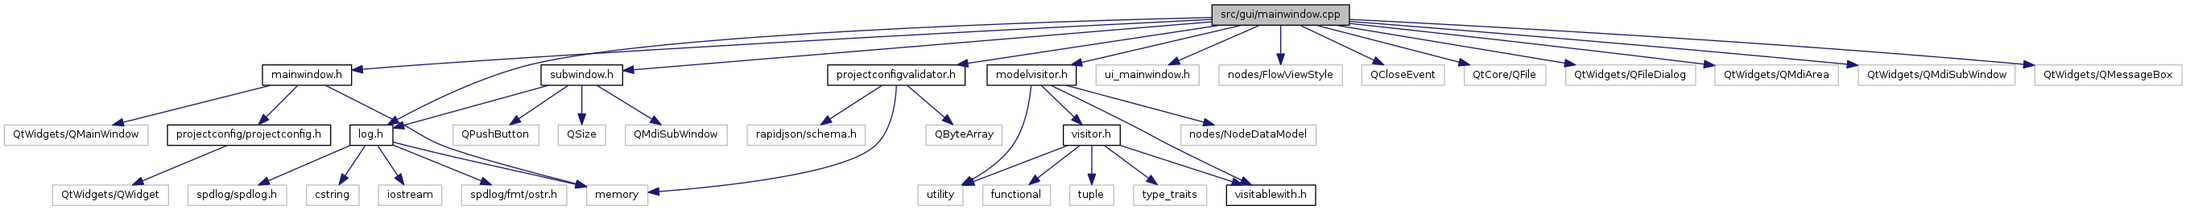
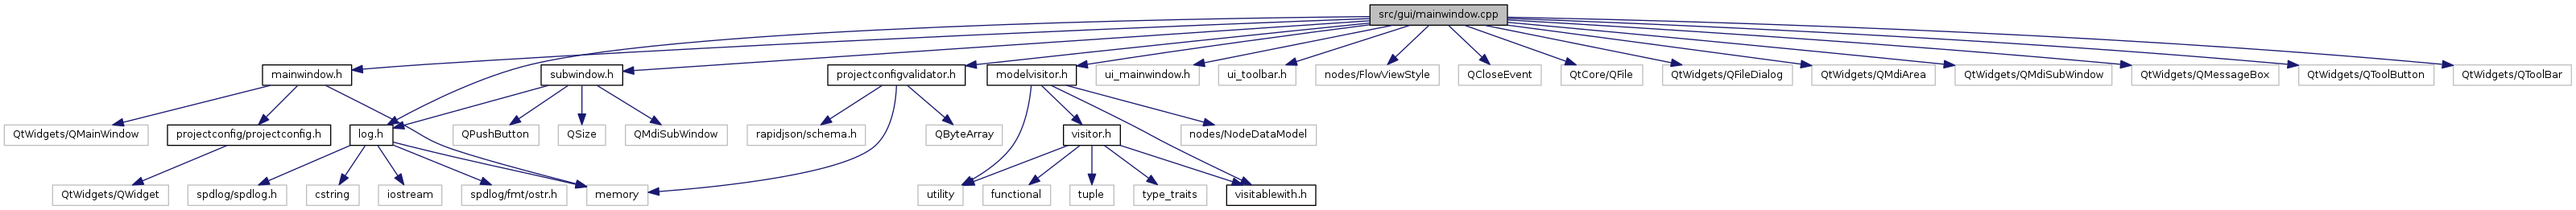
Deploy code docs to GitHub Pages Travis build: 366
Commit: 119ed48143788c033f581b284d51712edefcfd8b

diff --git a/gui_rework/subwindow_8h_source.html b/gui_rework/subwindow_8h_source.html
@@ -108,11 +108,11 @@ $(document).ready(function(){initNavTree('subwindow_8h_source.html','');});
 <div class="title">subwindow.h</div>  </div>
 </div><!--header-->
 <div class="contents">
-<a href="subwindow_8h.html">Go to the documentation of this file.</a><div class="fragment"><div class="line"><a name="l00001"></a><span class="lineno">    1</span>&#160;<span class="preprocessor">#ifndef __SUBWINDOW_H</span></div><div class="line"><a name="l00002"></a><span class="lineno">    2</span>&#160;<span class="preprocessor">#define __SUBWINDOW_H</span></div><div class="line"><a name="l00003"></a><span class="lineno">    3</span>&#160;</div><div class="line"><a name="l00004"></a><span class="lineno">    4</span>&#160;<span class="preprocessor">#include &lt;QMdiSubWindow&gt;</span></div><div class="line"><a name="l00005"></a><span class="lineno">    5</span>&#160;<span class="preprocessor">#include &lt;QPushButton&gt;</span></div><div class="line"><a name="l00006"></a><span class="lineno">    6</span>&#160;<span class="preprocessor">#include &lt;QSize&gt;</span></div><div class="line"><a name="l00007"></a><span class="lineno">    7</span>&#160;<span class="preprocessor">#include &lt;<a class="code" href="log_8h.html">log.h</a>&gt;</span></div><div class="line"><a name="l00008"></a><span class="lineno">    8</span>&#160;</div><div class="line"><a name="l00009"></a><span class="lineno"><a class="line" href="struct_sub_window.html">    9</a></span>&#160;<span class="keyword">struct </span><a class="code" href="struct_sub_window.html">SubWindow</a> : <span class="keyword">public</span> QMdiSubWindow {</div><div class="line"><a name="l00010"></a><span class="lineno"><a class="line" href="struct_sub_window.html#a6f9daf9f3cf4ad881f3b452c32778b1d">   10</a></span>&#160;    <a class="code" href="struct_sub_window.html#a6f9daf9f3cf4ad881f3b452c32778b1d">SubWindow</a>(QWidget* parent)</div><div class="line"><a name="l00011"></a><span class="lineno">   11</span>&#160;        : QMdiSubWindow(parent)</div><div class="line"><a name="l00012"></a><span class="lineno">   12</span>&#160;    {</div><div class="line"><a name="l00013"></a><span class="lineno">   13</span>&#160;        setAttribute(Qt::WA_DeleteOnClose);</div><div class="line"><a name="l00014"></a><span class="lineno">   14</span>&#160;    }</div><div class="line"><a name="l00015"></a><span class="lineno">   15</span>&#160;</div><div class="line"><a name="l00016"></a><span class="lineno"><a class="line" href="struct_sub_window.html#a1b4b2dec3bd9137440c809bde3447f0c">   16</a></span>&#160;    <span class="keyword">virtual</span> <span class="keywordtype">void</span> <a class="code" href="struct_sub_window.html#a1b4b2dec3bd9137440c809bde3447f0c">closeEvent</a>(QCloseEvent* event)<span class="keyword"> override</span></div><div class="line"><a name="l00017"></a><span class="lineno">   17</span>&#160;<span class="keyword">    </span>{</div><div class="line"><a name="l00018"></a><span class="lineno">   18</span>&#160;        <a class="code" href="log_8h.html#a05b412e36545f9b557c32234fd8d0f30">cds_debug</a>(<span class="stringliteral">&quot;On closing&quot;</span>);</div><div class="line"><a name="l00019"></a><span class="lineno">   19</span>&#160;</div><div class="line"><a name="l00020"></a><span class="lineno">   20</span>&#160;        <span class="comment">// Allow to close the window but prevent deletion of the widget</span></div><div class="line"><a name="l00021"></a><span class="lineno">   21</span>&#160;        setWidget(<span class="keyword">nullptr</span>);</div><div class="line"><a name="l00022"></a><span class="lineno">   22</span>&#160;        QMdiSubWindow::closeEvent(event);</div><div class="line"><a name="l00023"></a><span class="lineno">   23</span>&#160;    }</div><div class="line"><a name="l00024"></a><span class="lineno">   24</span>&#160;</div><div class="line"><a name="l00025"></a><span class="lineno"><a class="line" href="struct_sub_window.html#a81428e95192aa942f6a4b89e64b51b06">   25</a></span>&#160;    <span class="keyword">virtual</span> QSize <a class="code" href="struct_sub_window.html#a81428e95192aa942f6a4b89e64b51b06">minimumSizeHint</a>()<span class="keyword"> const override</span></div><div class="line"><a name="l00026"></a><span class="lineno">   26</span>&#160;<span class="keyword">    </span>{</div><div class="line"><a name="l00027"></a><span class="lineno">   27</span>&#160;        <span class="keywordflow">return</span> { 200, 100 };</div><div class="line"><a name="l00028"></a><span class="lineno">   28</span>&#160;    }</div><div class="line"><a name="l00029"></a><span class="lineno">   29</span>&#160;</div><div class="line"><a name="l00030"></a><span class="lineno"><a class="line" href="struct_sub_window.html#aeeea59c37ad33ad7160a5831734d9181">   30</a></span>&#160;    <span class="keyword">virtual</span> QSize <a class="code" href="struct_sub_window.html#aeeea59c37ad33ad7160a5831734d9181">sizeHint</a>()<span class="keyword"> const override</span></div><div class="line"><a name="l00031"></a><span class="lineno">   31</span>&#160;<span class="keyword">    </span>{</div><div class="line"><a name="l00032"></a><span class="lineno">   32</span>&#160;        QSize size;</div><div class="line"><a name="l00033"></a><span class="lineno">   33</span>&#160;</div><div class="line"><a name="l00034"></a><span class="lineno">   34</span>&#160;        <span class="keywordflow">if</span> (parentWidget()) {</div><div class="line"><a name="l00035"></a><span class="lineno">   35</span>&#160;            size.setHeight(parentWidget()-&gt;size().height() / 2);</div><div class="line"><a name="l00036"></a><span class="lineno">   36</span>&#160;            size.setWidth(parentWidget()-&gt;size().width() / 2);</div><div class="line"><a name="l00037"></a><span class="lineno">   37</span>&#160;        } <span class="keywordflow">else</span> {</div><div class="line"><a name="l00038"></a><span class="lineno">   38</span>&#160;            <a class="code" href="log_8h.html#aadcd3161833f6a2188d288cfdc04d791">cds_error</a>(<span class="stringliteral">&quot;parentWidget() is NULL!&quot;</span>);</div><div class="line"><a name="l00039"></a><span class="lineno">   39</span>&#160;        }</div><div class="line"><a name="l00040"></a><span class="lineno">   40</span>&#160;</div><div class="line"><a name="l00041"></a><span class="lineno">   41</span>&#160;        <span class="keywordflow">return</span> size;</div><div class="line"><a name="l00042"></a><span class="lineno">   42</span>&#160;    }</div><div class="line"><a name="l00043"></a><span class="lineno">   43</span>&#160;};</div><div class="line"><a name="l00044"></a><span class="lineno">   44</span>&#160;</div><div class="line"><a name="l00045"></a><span class="lineno">   45</span>&#160;<span class="preprocessor">#endif </span><span class="comment">/* !__SUBWINDOW_H */</span><span class="preprocessor"></span></div><div class="ttc" id="log_8h_html_aadcd3161833f6a2188d288cfdc04d791"><div class="ttname"><a href="log_8h.html#aadcd3161833f6a2188d288cfdc04d791">cds_error</a></div><div class="ttdeci">#define cds_error(fmt,...)</div><div class="ttdef"><b>Definition:</b> log.h:19</div></div>
-<div class="ttc" id="struct_sub_window_html_a81428e95192aa942f6a4b89e64b51b06"><div class="ttname"><a href="struct_sub_window.html#a81428e95192aa942f6a4b89e64b51b06">SubWindow::minimumSizeHint</a></div><div class="ttdeci">virtual QSize minimumSizeHint() const override</div><div class="ttdef"><b>Definition:</b> subwindow.h:25</div></div>
-<div class="ttc" id="struct_sub_window_html_aeeea59c37ad33ad7160a5831734d9181"><div class="ttname"><a href="struct_sub_window.html#aeeea59c37ad33ad7160a5831734d9181">SubWindow::sizeHint</a></div><div class="ttdeci">virtual QSize sizeHint() const override</div><div class="ttdef"><b>Definition:</b> subwindow.h:30</div></div>
+<a href="subwindow_8h.html">Go to the documentation of this file.</a><div class="fragment"><div class="line"><a name="l00001"></a><span class="lineno">    1</span>&#160;<span class="preprocessor">#ifndef __SUBWINDOW_H</span></div><div class="line"><a name="l00002"></a><span class="lineno">    2</span>&#160;<span class="preprocessor">#define __SUBWINDOW_H</span></div><div class="line"><a name="l00003"></a><span class="lineno">    3</span>&#160;</div><div class="line"><a name="l00004"></a><span class="lineno">    4</span>&#160;<span class="preprocessor">#include &lt;QMdiSubWindow&gt;</span></div><div class="line"><a name="l00005"></a><span class="lineno">    5</span>&#160;<span class="preprocessor">#include &lt;QPushButton&gt;</span></div><div class="line"><a name="l00006"></a><span class="lineno">    6</span>&#160;<span class="preprocessor">#include &lt;QSize&gt;</span></div><div class="line"><a name="l00007"></a><span class="lineno">    7</span>&#160;<span class="preprocessor">#include &lt;<a class="code" href="log_8h.html">log.h</a>&gt;</span></div><div class="line"><a name="l00008"></a><span class="lineno">    8</span>&#160;</div><div class="line"><a name="l00009"></a><span class="lineno"><a class="line" href="struct_sub_window.html">    9</a></span>&#160;<span class="keyword">struct </span><a class="code" href="struct_sub_window.html">SubWindow</a> : <span class="keyword">public</span> QMdiSubWindow {</div><div class="line"><a name="l00010"></a><span class="lineno"><a class="line" href="struct_sub_window.html#a6f9daf9f3cf4ad881f3b452c32778b1d">   10</a></span>&#160;    <a class="code" href="struct_sub_window.html#a6f9daf9f3cf4ad881f3b452c32778b1d">SubWindow</a>(QWidget* parent)</div><div class="line"><a name="l00011"></a><span class="lineno">   11</span>&#160;        : QMdiSubWindow(parent)</div><div class="line"><a name="l00012"></a><span class="lineno">   12</span>&#160;    {</div><div class="line"><a name="l00013"></a><span class="lineno">   13</span>&#160;        setAttribute(Qt::WA_DeleteOnClose);</div><div class="line"><a name="l00014"></a><span class="lineno">   14</span>&#160;        setWindowIcon(QIcon(<span class="stringliteral">&quot;:/images/files/images/light/CANbus_logo.svg&quot;</span>));</div><div class="line"><a name="l00015"></a><span class="lineno">   15</span>&#160;    }</div><div class="line"><a name="l00016"></a><span class="lineno">   16</span>&#160;</div><div class="line"><a name="l00017"></a><span class="lineno"><a class="line" href="struct_sub_window.html#a1b4b2dec3bd9137440c809bde3447f0c">   17</a></span>&#160;    <span class="keyword">virtual</span> <span class="keywordtype">void</span> <a class="code" href="struct_sub_window.html#a1b4b2dec3bd9137440c809bde3447f0c">closeEvent</a>(QCloseEvent* event)<span class="keyword"> override</span></div><div class="line"><a name="l00018"></a><span class="lineno">   18</span>&#160;<span class="keyword">    </span>{</div><div class="line"><a name="l00019"></a><span class="lineno">   19</span>&#160;        <a class="code" href="log_8h.html#a05b412e36545f9b557c32234fd8d0f30">cds_debug</a>(<span class="stringliteral">&quot;On closing&quot;</span>);</div><div class="line"><a name="l00020"></a><span class="lineno">   20</span>&#160;</div><div class="line"><a name="l00021"></a><span class="lineno">   21</span>&#160;        <span class="comment">// Allow to close the window but prevent deletion of the widget</span></div><div class="line"><a name="l00022"></a><span class="lineno">   22</span>&#160;        setWidget(<span class="keyword">nullptr</span>);</div><div class="line"><a name="l00023"></a><span class="lineno">   23</span>&#160;        QMdiSubWindow::closeEvent(event);</div><div class="line"><a name="l00024"></a><span class="lineno">   24</span>&#160;    }</div><div class="line"><a name="l00025"></a><span class="lineno">   25</span>&#160;</div><div class="line"><a name="l00026"></a><span class="lineno"><a class="line" href="struct_sub_window.html#a81428e95192aa942f6a4b89e64b51b06">   26</a></span>&#160;    <span class="keyword">virtual</span> QSize <a class="code" href="struct_sub_window.html#a81428e95192aa942f6a4b89e64b51b06">minimumSizeHint</a>()<span class="keyword"> const override</span></div><div class="line"><a name="l00027"></a><span class="lineno">   27</span>&#160;<span class="keyword">    </span>{</div><div class="line"><a name="l00028"></a><span class="lineno">   28</span>&#160;        <span class="keywordflow">return</span> { 200, 100 };</div><div class="line"><a name="l00029"></a><span class="lineno">   29</span>&#160;    }</div><div class="line"><a name="l00030"></a><span class="lineno">   30</span>&#160;</div><div class="line"><a name="l00031"></a><span class="lineno"><a class="line" href="struct_sub_window.html#aeeea59c37ad33ad7160a5831734d9181">   31</a></span>&#160;    <span class="keyword">virtual</span> QSize <a class="code" href="struct_sub_window.html#aeeea59c37ad33ad7160a5831734d9181">sizeHint</a>()<span class="keyword"> const override</span></div><div class="line"><a name="l00032"></a><span class="lineno">   32</span>&#160;<span class="keyword">    </span>{</div><div class="line"><a name="l00033"></a><span class="lineno">   33</span>&#160;        QSize size;</div><div class="line"><a name="l00034"></a><span class="lineno">   34</span>&#160;</div><div class="line"><a name="l00035"></a><span class="lineno">   35</span>&#160;        <span class="keywordflow">if</span> (parentWidget()) {</div><div class="line"><a name="l00036"></a><span class="lineno">   36</span>&#160;            size.setHeight(parentWidget()-&gt;size().height() / 2);</div><div class="line"><a name="l00037"></a><span class="lineno">   37</span>&#160;            size.setWidth(parentWidget()-&gt;size().width() / 2);</div><div class="line"><a name="l00038"></a><span class="lineno">   38</span>&#160;        } <span class="keywordflow">else</span> {</div><div class="line"><a name="l00039"></a><span class="lineno">   39</span>&#160;            <a class="code" href="log_8h.html#aadcd3161833f6a2188d288cfdc04d791">cds_error</a>(<span class="stringliteral">&quot;parentWidget() is NULL!&quot;</span>);</div><div class="line"><a name="l00040"></a><span class="lineno">   40</span>&#160;        }</div><div class="line"><a name="l00041"></a><span class="lineno">   41</span>&#160;</div><div class="line"><a name="l00042"></a><span class="lineno">   42</span>&#160;        <span class="keywordflow">return</span> size;</div><div class="line"><a name="l00043"></a><span class="lineno">   43</span>&#160;    }</div><div class="line"><a name="l00044"></a><span class="lineno">   44</span>&#160;};</div><div class="line"><a name="l00045"></a><span class="lineno">   45</span>&#160;</div><div class="line"><a name="l00046"></a><span class="lineno">   46</span>&#160;<span class="preprocessor">#endif </span><span class="comment">/* !__SUBWINDOW_H */</span><span class="preprocessor"></span></div><div class="ttc" id="log_8h_html_aadcd3161833f6a2188d288cfdc04d791"><div class="ttname"><a href="log_8h.html#aadcd3161833f6a2188d288cfdc04d791">cds_error</a></div><div class="ttdeci">#define cds_error(fmt,...)</div><div class="ttdef"><b>Definition:</b> log.h:19</div></div>
+<div class="ttc" id="struct_sub_window_html_a81428e95192aa942f6a4b89e64b51b06"><div class="ttname"><a href="struct_sub_window.html#a81428e95192aa942f6a4b89e64b51b06">SubWindow::minimumSizeHint</a></div><div class="ttdeci">virtual QSize minimumSizeHint() const override</div><div class="ttdef"><b>Definition:</b> subwindow.h:26</div></div>
+<div class="ttc" id="struct_sub_window_html_aeeea59c37ad33ad7160a5831734d9181"><div class="ttname"><a href="struct_sub_window.html#aeeea59c37ad33ad7160a5831734d9181">SubWindow::sizeHint</a></div><div class="ttdeci">virtual QSize sizeHint() const override</div><div class="ttdef"><b>Definition:</b> subwindow.h:31</div></div>
 <div class="ttc" id="struct_sub_window_html"><div class="ttname"><a href="struct_sub_window.html">SubWindow</a></div><div class="ttdef"><b>Definition:</b> subwindow.h:9</div></div>
-<div class="ttc" id="struct_sub_window_html_a1b4b2dec3bd9137440c809bde3447f0c"><div class="ttname"><a href="struct_sub_window.html#a1b4b2dec3bd9137440c809bde3447f0c">SubWindow::closeEvent</a></div><div class="ttdeci">virtual void closeEvent(QCloseEvent *event) override</div><div class="ttdef"><b>Definition:</b> subwindow.h:16</div></div>
+<div class="ttc" id="struct_sub_window_html_a1b4b2dec3bd9137440c809bde3447f0c"><div class="ttname"><a href="struct_sub_window.html#a1b4b2dec3bd9137440c809bde3447f0c">SubWindow::closeEvent</a></div><div class="ttdeci">virtual void closeEvent(QCloseEvent *event) override</div><div class="ttdef"><b>Definition:</b> subwindow.h:17</div></div>
 <div class="ttc" id="struct_sub_window_html_a6f9daf9f3cf4ad881f3b452c32778b1d"><div class="ttname"><a href="struct_sub_window.html#a6f9daf9f3cf4ad881f3b452c32778b1d">SubWindow::SubWindow</a></div><div class="ttdeci">SubWindow(QWidget *parent)</div><div class="ttdef"><b>Definition:</b> subwindow.h:10</div></div>
 <div class="ttc" id="log_8h_html"><div class="ttname"><a href="log_8h.html">log.h</a></div></div>
 <div class="ttc" id="log_8h_html_a05b412e36545f9b557c32234fd8d0f30"><div class="ttname"><a href="log_8h.html#a05b412e36545f9b557c32234fd8d0f30">cds_debug</a></div><div class="ttdeci">#define cds_debug(fmt,...)</div><div class="ttdef"><b>Definition:</b> log.h:11</div></div>

diff --git a/gui_rework/mainwindow_8h_source.html b/gui_rework/mainwindow_8h_source.html
@@ -108,9 +108,9 @@ $(document).ready(function(){initNavTree('mainwindow_8h_source.html','');});
 <div class="title">mainwindow.h</div>  </div>
 </div><!--header-->
 <div class="contents">
-<a href="mainwindow_8h.html">Go to the documentation of this file.</a><div class="fragment"><div class="line"><a name="l00001"></a><span class="lineno">    1</span>&#160;<span class="preprocessor">#ifndef MAINWINDOW_H</span></div><div class="line"><a name="l00002"></a><span class="lineno">    2</span>&#160;<span class="preprocessor">#define MAINWINDOW_H</span></div><div class="line"><a name="l00003"></a><span class="lineno">    3</span>&#160;</div><div class="line"><a name="l00004"></a><span class="lineno">    4</span>&#160;<span class="preprocessor">#include &lt;QtWidgets/QMainWindow&gt;</span></div><div class="line"><a name="l00005"></a><span class="lineno">    5</span>&#160;<span class="preprocessor">#include &lt;memory&gt;</span></div><div class="line"><a name="l00006"></a><span class="lineno">    6</span>&#160;</div><div class="line"><a name="l00007"></a><span class="lineno">    7</span>&#160;<span class="preprocessor">#include &quot;<a class="code" href="projectconfig_8h.html">projectconfig/projectconfig.h</a>&quot;</span></div><div class="line"><a name="l00008"></a><span class="lineno">    8</span>&#160;</div><div class="line"><a name="l00009"></a><span class="lineno">    9</span>&#160;<span class="keyword">class </span>QCloseEvent;</div><div class="line"><a name="l00010"></a><span class="lineno">   10</span>&#160;</div><div class="line"><a name="l00011"></a><span class="lineno">   11</span>&#160;<span class="keyword">namespace </span><a class="code" href="namespace_ui.html">Ui</a> {</div><div class="line"><a name="l00012"></a><span class="lineno">   12</span>&#160;<span class="keyword">class </span><a class="code" href="class_main_window.html">MainWindow</a>;</div><div class="line"><a name="l00013"></a><span class="lineno">   13</span>&#160;}</div><div class="line"><a name="l00014"></a><span class="lineno">   14</span>&#160;</div><div class="line"><a name="l00015"></a><span class="lineno"><a class="line" href="class_main_window.html">   15</a></span>&#160;<span class="keyword">class </span><a class="code" href="class_main_window.html">MainWindow</a> : <span class="keyword">public</span> QMainWindow {</div><div class="line"><a name="l00016"></a><span class="lineno">   16</span>&#160;    Q_OBJECT</div><div class="line"><a name="l00017"></a><span class="lineno">   17</span>&#160;</div><div class="line"><a name="l00018"></a><span class="lineno">   18</span>&#160;<span class="keyword">public</span>:</div><div class="line"><a name="l00019"></a><span class="lineno"><a class="line" href="class_main_window.html#a3ce45e5943ef06256e909456d7aaff8d">   19</a></span>&#160;    <span class="keyword">enum class</span> <a class="code" href="class_main_window.html#a3ce45e5943ef06256e909456d7aaff8d">Styles</a> {</div><div class="line"><a name="l00020"></a><span class="lineno">   20</span>&#160;        darkStyle,</div><div class="line"><a name="l00021"></a><span class="lineno">   21</span>&#160;        lightStyle</div><div class="line"><a name="l00022"></a><span class="lineno">   22</span>&#160;    };</div><div class="line"><a name="l00023"></a><span class="lineno">   23</span>&#160;</div><div class="line"><a name="l00024"></a><span class="lineno">   24</span>&#160;    <span class="keyword">explicit</span> <a class="code" href="class_main_window.html">MainWindow</a>(QWidget* parent = <span class="keyword">nullptr</span>);</div><div class="line"><a name="l00025"></a><span class="lineno">   25</span>&#160;    ~<a class="code" href="class_main_window.html">MainWindow</a>();</div><div class="line"><a name="l00026"></a><span class="lineno">   26</span>&#160;</div><div class="line"><a name="l00027"></a><span class="lineno">   27</span>&#160;<span class="keyword">private</span>:</div><div class="line"><a name="l00028"></a><span class="lineno">   28</span>&#160;    std::unique_ptr&lt;Ui::MainWindow&gt; _ui;</div><div class="line"><a name="l00029"></a><span class="lineno">   29</span>&#160;    std::unique_ptr&lt;ProjectConfig&gt; _projectConfig;</div><div class="line"><a name="l00030"></a><span class="lineno">   30</span>&#160;    QString _projectFile;</div><div class="line"><a name="l00031"></a><span class="lineno">   31</span>&#160;    QString _projectName;</div><div class="line"><a name="l00032"></a><span class="lineno">   32</span>&#160;    <a class="code" href="class_main_window.html#a3ce45e5943ef06256e909456d7aaff8d">Styles</a> currentStyle;</div><div class="line"><a name="l00033"></a><span class="lineno">   33</span>&#160;</div><div class="line"><a name="l00034"></a><span class="lineno">   34</span>&#160;    <span class="keywordtype">void</span> connectToolbarSignals();</div><div class="line"><a name="l00035"></a><span class="lineno">   35</span>&#160;    <span class="keywordtype">void</span> connectMenuSignals();</div><div class="line"><a name="l00036"></a><span class="lineno">   36</span>&#160;    <span class="keywordtype">void</span> setupMdiArea();</div><div class="line"><a name="l00037"></a><span class="lineno">   37</span>&#160;    <span class="keywordtype">void</span> closeEvent(QCloseEvent* event);</div><div class="line"><a name="l00038"></a><span class="lineno">   38</span>&#160;    <span class="keywordtype">void</span> handleLoadAction();</div><div class="line"><a name="l00039"></a><span class="lineno">   39</span>&#160;    <span class="keywordtype">void</span> handleSaveAction();</div><div class="line"><a name="l00040"></a><span class="lineno">   40</span>&#160;    <span class="keywordtype">void</span> handleSaveAsAction();</div><div class="line"><a name="l00041"></a><span class="lineno">   41</span>&#160;    <span class="keywordtype">void</span> addToMdi(QWidget* component);</div><div class="line"><a name="l00042"></a><span class="lineno">   42</span>&#160;</div><div class="line"><a name="l00043"></a><span class="lineno">   43</span>&#160;<span class="keyword">public</span> slots:</div><div class="line"><a name="l00044"></a><span class="lineno">   44</span>&#160;    <span class="keywordtype">void</span> handleDock(QWidget* component);</div><div class="line"><a name="l00045"></a><span class="lineno">   45</span>&#160;    <span class="keywordtype">void</span> handleWidgetDeletion(QWidget* widget);</div><div class="line"><a name="l00046"></a><span class="lineno">   46</span>&#160;    <span class="keywordtype">void</span> handleWidgetShowing(QWidget* widget, <span class="keywordtype">bool</span> docked);</div><div class="line"><a name="l00047"></a><span class="lineno">   47</span>&#160;    <span class="keywordtype">bool</span> createProjectConfig(<span class="keyword">const</span> QString &amp;name);</div><div class="line"><a name="l00048"></a><span class="lineno">   48</span>&#160;    <span class="keywordtype">bool</span> closeProjectConfig();</div><div class="line"><a name="l00049"></a><span class="lineno">   49</span>&#160;    <span class="keywordtype">void</span> switchStyle();</div><div class="line"><a name="l00050"></a><span class="lineno">   50</span>&#160;    <span class="keywordtype">void</span> setStyle(<a class="code" href="class_main_window.html#a3ce45e5943ef06256e909456d7aaff8d">Styles</a> style);</div><div class="line"><a name="l00051"></a><span class="lineno">   51</span>&#160;};</div><div class="line"><a name="l00052"></a><span class="lineno">   52</span>&#160;</div><div class="line"><a name="l00053"></a><span class="lineno">   53</span>&#160;<span class="preprocessor">#endif // MAINWINDOW_H</span></div><div class="ttc" id="namespace_ui_html"><div class="ttname"><a href="namespace_ui.html">Ui</a></div><div class="ttdef"><b>Definition:</b> canrawsender_p.h:13</div></div>
-<div class="ttc" id="class_main_window_html_a3ce45e5943ef06256e909456d7aaff8d"><div class="ttname"><a href="class_main_window.html#a3ce45e5943ef06256e909456d7aaff8d">MainWindow::Styles</a></div><div class="ttdeci">Styles</div><div class="ttdef"><b>Definition:</b> mainwindow.h:19</div></div>
-<div class="ttc" id="class_main_window_html"><div class="ttname"><a href="class_main_window.html">MainWindow</a></div><div class="ttdef"><b>Definition:</b> mainwindow.h:15</div></div>
+<a href="mainwindow_8h.html">Go to the documentation of this file.</a><div class="fragment"><div class="line"><a name="l00001"></a><span class="lineno">    1</span>&#160;<span class="preprocessor">#ifndef MAINWINDOW_H</span></div><div class="line"><a name="l00002"></a><span class="lineno">    2</span>&#160;<span class="preprocessor">#define MAINWINDOW_H</span></div><div class="line"><a name="l00003"></a><span class="lineno">    3</span>&#160;</div><div class="line"><a name="l00004"></a><span class="lineno">    4</span>&#160;<span class="preprocessor">#include &lt;QtWidgets/QMainWindow&gt;</span></div><div class="line"><a name="l00005"></a><span class="lineno">    5</span>&#160;<span class="preprocessor">#include &lt;memory&gt;</span></div><div class="line"><a name="l00006"></a><span class="lineno">    6</span>&#160;</div><div class="line"><a name="l00007"></a><span class="lineno">    7</span>&#160;<span class="preprocessor">#include &quot;<a class="code" href="projectconfig_8h.html">projectconfig/projectconfig.h</a>&quot;</span></div><div class="line"><a name="l00008"></a><span class="lineno">    8</span>&#160;</div><div class="line"><a name="l00009"></a><span class="lineno">    9</span>&#160;<span class="keyword">class </span>QCloseEvent;</div><div class="line"><a name="l00010"></a><span class="lineno">   10</span>&#160;</div><div class="line"><a name="l00011"></a><span class="lineno">   11</span>&#160;<span class="keyword">namespace </span><a class="code" href="namespace_ui.html">Ui</a> {</div><div class="line"><a name="l00012"></a><span class="lineno">   12</span>&#160;<span class="keyword">class </span>ToolBar;</div><div class="line"><a name="l00013"></a><span class="lineno">   13</span>&#160;<span class="keyword">class </span><a class="code" href="class_main_window.html">MainWindow</a>;</div><div class="line"><a name="l00014"></a><span class="lineno">   14</span>&#160;}</div><div class="line"><a name="l00015"></a><span class="lineno">   15</span>&#160;</div><div class="line"><a name="l00016"></a><span class="lineno"><a class="line" href="class_main_window.html">   16</a></span>&#160;<span class="keyword">class </span><a class="code" href="class_main_window.html">MainWindow</a> : <span class="keyword">public</span> QMainWindow {</div><div class="line"><a name="l00017"></a><span class="lineno">   17</span>&#160;    Q_OBJECT</div><div class="line"><a name="l00018"></a><span class="lineno">   18</span>&#160;</div><div class="line"><a name="l00019"></a><span class="lineno">   19</span>&#160;<span class="keyword">public</span>:</div><div class="line"><a name="l00020"></a><span class="lineno"><a class="line" href="class_main_window.html#a3ce45e5943ef06256e909456d7aaff8d">   20</a></span>&#160;    <span class="keyword">enum class</span> <a class="code" href="class_main_window.html#a3ce45e5943ef06256e909456d7aaff8d">Styles</a> {</div><div class="line"><a name="l00021"></a><span class="lineno">   21</span>&#160;        darkStyle,</div><div class="line"><a name="l00022"></a><span class="lineno">   22</span>&#160;        lightStyle</div><div class="line"><a name="l00023"></a><span class="lineno">   23</span>&#160;    };</div><div class="line"><a name="l00024"></a><span class="lineno">   24</span>&#160;</div><div class="line"><a name="l00025"></a><span class="lineno">   25</span>&#160;    <span class="keyword">explicit</span> <a class="code" href="class_main_window.html">MainWindow</a>(QWidget* parent = <span class="keyword">nullptr</span>);</div><div class="line"><a name="l00026"></a><span class="lineno">   26</span>&#160;    ~<a class="code" href="class_main_window.html">MainWindow</a>();</div><div class="line"><a name="l00027"></a><span class="lineno">   27</span>&#160;</div><div class="line"><a name="l00028"></a><span class="lineno">   28</span>&#160;<span class="keyword">private</span>:</div><div class="line"><a name="l00029"></a><span class="lineno">   29</span>&#160;    std::unique_ptr&lt;Ui::MainWindow&gt; _ui;</div><div class="line"><a name="l00030"></a><span class="lineno">   30</span>&#160;    std::unique_ptr&lt;Ui::ToolBar&gt; _toolBar;</div><div class="line"><a name="l00031"></a><span class="lineno">   31</span>&#160;    std::unique_ptr&lt;ProjectConfig&gt; _projectConfig;</div><div class="line"><a name="l00032"></a><span class="lineno">   32</span>&#160;    QString _projectFile;</div><div class="line"><a name="l00033"></a><span class="lineno">   33</span>&#160;    QString _projectName;</div><div class="line"><a name="l00034"></a><span class="lineno">   34</span>&#160;    <a class="code" href="class_main_window.html#a3ce45e5943ef06256e909456d7aaff8d">Styles</a> currentStyle;</div><div class="line"><a name="l00035"></a><span class="lineno">   35</span>&#160;</div><div class="line"><a name="l00036"></a><span class="lineno">   36</span>&#160;    <span class="keywordtype">void</span> connectToolbarSignals();</div><div class="line"><a name="l00037"></a><span class="lineno">   37</span>&#160;    <span class="keywordtype">void</span> connectMenuSignals();</div><div class="line"><a name="l00038"></a><span class="lineno">   38</span>&#160;    <span class="keywordtype">void</span> setupMdiArea();</div><div class="line"><a name="l00039"></a><span class="lineno">   39</span>&#160;    <span class="keywordtype">void</span> closeEvent(QCloseEvent* event);</div><div class="line"><a name="l00040"></a><span class="lineno">   40</span>&#160;    <span class="keywordtype">void</span> handleLoadAction();</div><div class="line"><a name="l00041"></a><span class="lineno">   41</span>&#160;    <span class="keywordtype">void</span> handleSaveAction();</div><div class="line"><a name="l00042"></a><span class="lineno">   42</span>&#160;    <span class="keywordtype">void</span> handleSaveAsAction();</div><div class="line"><a name="l00043"></a><span class="lineno">   43</span>&#160;    <span class="keywordtype">void</span> addToMdi(QWidget* component);</div><div class="line"><a name="l00044"></a><span class="lineno">   44</span>&#160;</div><div class="line"><a name="l00045"></a><span class="lineno">   45</span>&#160;<span class="keyword">public</span> slots:</div><div class="line"><a name="l00046"></a><span class="lineno">   46</span>&#160;    <span class="keywordtype">void</span> handleDock(QWidget* component);</div><div class="line"><a name="l00047"></a><span class="lineno">   47</span>&#160;    <span class="keywordtype">void</span> handleWidgetDeletion(QWidget* widget);</div><div class="line"><a name="l00048"></a><span class="lineno">   48</span>&#160;    <span class="keywordtype">void</span> handleWidgetShowing(QWidget* widget, <span class="keywordtype">bool</span> docked);</div><div class="line"><a name="l00049"></a><span class="lineno">   49</span>&#160;    <span class="keywordtype">bool</span> createProjectConfig(<span class="keyword">const</span> QString &amp;name);</div><div class="line"><a name="l00050"></a><span class="lineno">   50</span>&#160;    <span class="keywordtype">bool</span> closeProjectConfig();</div><div class="line"><a name="l00051"></a><span class="lineno">   51</span>&#160;    <span class="keywordtype">void</span> switchStyle();</div><div class="line"><a name="l00052"></a><span class="lineno">   52</span>&#160;    <span class="keywordtype">void</span> setStyle(<a class="code" href="class_main_window.html#a3ce45e5943ef06256e909456d7aaff8d">Styles</a> style);</div><div class="line"><a name="l00053"></a><span class="lineno">   53</span>&#160;};</div><div class="line"><a name="l00054"></a><span class="lineno">   54</span>&#160;</div><div class="line"><a name="l00055"></a><span class="lineno">   55</span>&#160;<span class="preprocessor">#endif // MAINWINDOW_H</span></div><div class="ttc" id="namespace_ui_html"><div class="ttname"><a href="namespace_ui.html">Ui</a></div><div class="ttdef"><b>Definition:</b> canrawsender_p.h:13</div></div>
+<div class="ttc" id="class_main_window_html_a3ce45e5943ef06256e909456d7aaff8d"><div class="ttname"><a href="class_main_window.html#a3ce45e5943ef06256e909456d7aaff8d">MainWindow::Styles</a></div><div class="ttdeci">Styles</div><div class="ttdef"><b>Definition:</b> mainwindow.h:20</div></div>
+<div class="ttc" id="class_main_window_html"><div class="ttname"><a href="class_main_window.html">MainWindow</a></div><div class="ttdef"><b>Definition:</b> mainwindow.h:16</div></div>
 <div class="ttc" id="projectconfig_8h_html"><div class="ttname"><a href="projectconfig_8h.html">projectconfig.h</a></div></div>
 </div><!-- fragment --></div><!-- contents -->
 </div><!-- doc-content -->

diff --git a/gui_rework/mainwindow_8cpp.html b/gui_rework/mainwindow_8cpp.html
@@ -113,6 +113,7 @@ $(document).ready(function(){initNavTree('mainwindow_8cpp.html','');});
 <code>#include &quot;<a class="el" href="modelvisitor_8h_source.html">modelvisitor.h</a>&quot;</code><br />
 <code>#include &quot;<a class="el" href="subwindow_8h_source.html">subwindow.h</a>&quot;</code><br />
 <code>#include &quot;ui_mainwindow.h&quot;</code><br />
+<code>#include &quot;ui_toolbar.h&quot;</code><br />
 <code>#include &quot;<a class="el" href="projectconfigvalidator_8h_source.html">projectconfigvalidator.h</a>&quot;</code><br />
 <code>#include &lt;nodes/FlowViewStyle&gt;</code><br />
 <code>#include &lt;QCloseEvent&gt;</code><br />
@@ -121,6 +122,8 @@ $(document).ready(function(){initNavTree('mainwindow_8cpp.html','');});
 <code>#include &lt;QtWidgets/QMdiArea&gt;</code><br />
 <code>#include &lt;QtWidgets/QMdiSubWindow&gt;</code><br />
 <code>#include &lt;QtWidgets/QMessageBox&gt;</code><br />
+<code>#include &lt;QtWidgets/QToolButton&gt;</code><br />
+<code>#include &lt;QtWidgets/QToolBar&gt;</code><br />
 </div><div class="textblock"><div class="dynheader">
 Include dependency graph for mainwindow.cpp:</div>
 <div class="dyncontent">
@@ -130,7 +133,7 @@ Include dependency graph for mainwindow.cpp:</div>
 <area shape="rect" id="node7" href="log_8h.html" title="log.h" alt="" coords="435,155,488,181"/>
 <area shape="rect" id="node12" href="modelvisitor_8h.html" title="modelvisitor.h" alt="" coords="1226,80,1337,107"/>
 <area shape="rect" id="node20" href="subwindow_8h.html" title="subwindow.h" alt="" coords="672,80,773,107"/>
-<area shape="rect" id="node25" href="projectconfigvalidator_8h.html" title="projectconfigvalidator.h" alt="" coords="1028,80,1199,107"/>
+<area shape="rect" id="node26" href="projectconfigvalidator_8h.html" title="projectconfigvalidator.h" alt="" coords="1028,80,1199,107"/>
 <area shape="rect" id="node5" href="projectconfig_8h.html" title="projectconfig/projectconfig.h" alt="" coords="208,155,411,181"/>
 <area shape="rect" id="node15" href="visitor_8h.html" title="visitor.h" alt="" coords="1321,155,1391,181"/>
 <area shape="rect" id="node19" href="visitablewith_8h.html" title="visitablewith.h" alt="" coords="1523,229,1634,256"/>

diff --git a/gui_rework/search/all_12.js b/gui_rework/search/all_12.js
@@ -24,7 +24,7 @@ var searchData=
   ['setqconfig',['setQConfig',['../classconfig_helpers.html#a334a8dafdd159258dd0af7c986069a0d',1,'configHelpers']]],
   ['setremovecbk',['setRemoveCbk',['../struct_c_r_s_gui.html#a9e8f6452b3c9aaac5cf9f6ad3ff76f03',1,'CRSGui::setRemoveCbk()'],['../struct_c_r_s_gui_interface.html#aa78f9ad14e3b1dab6069779e67654e2d',1,'CRSGuiInterface::setRemoveCbk()']]],
   ['setsectionclikedcbk',['setSectionClikedCbk',['../struct_c_r_v_gui.html#a8ab65b21d578369200f5c8d27fd509ba',1,'CRVGui::setSectionClikedCbk()'],['../struct_c_r_v_gui_interface.html#a88ad20480f5ed0f24ef7c1d92ecebda5',1,'CRVGuiInterface::setSectionClikedCbk()']]],
-  ['setsimulationstate',['SetSimulationState',['../class_new_line_manager.html#aa9e40fb8bda738c509ab9b9df60f2de1',1,'NewLineManager::SetSimulationState()'],['../class_can_raw_sender_private.html#ac2fd241370f1045c3735cb32d670eb31',1,'CanRawSenderPrivate::setSimulationState()']]],
+  ['setsimulationstate',['setSimulationState',['../class_can_raw_sender_private.html#ac2fd241370f1045c3735cb32d670eb31',1,'CanRawSenderPrivate::setSimulationState()'],['../class_new_line_manager.html#aa9e40fb8bda738c509ab9b9df60f2de1',1,'NewLineManager::SetSimulationState()']]],
   ['setsorting',['setSorting',['../struct_c_r_v_gui.html#a517fc8f58be7047c4c3f5af028615b7a',1,'CRVGui::setSorting()'],['../struct_c_r_v_gui_interface.html#ac8d76b33dcb19012a88f0f5da098ee2e',1,'CRVGuiInterface::setSorting()']]],
   ['setstate',['setState',['../struct_check_box_interface.html#a19933f6a84ef58575df894d6c319f8bb',1,'CheckBoxInterface::setState()'],['../struct_n_l_m_check_box.html#a93fb487c800dfe598935736f829f8e87',1,'NLMCheckBox::setState()']]],
   ['setstyle',['setStyle',['../class_main_window.html#a7d59764cad27f224ba87e76d07ad5269',1,'MainWindow']]],

diff --git a/gui_rework/search/functions_f.js b/gui_rework/search/functions_f.js
@@ -22,7 +22,7 @@ var searchData=
   ['setqconfig',['setQConfig',['../classconfig_helpers.html#a334a8dafdd159258dd0af7c986069a0d',1,'configHelpers']]],
   ['setremovecbk',['setRemoveCbk',['../struct_c_r_s_gui.html#a9e8f6452b3c9aaac5cf9f6ad3ff76f03',1,'CRSGui::setRemoveCbk()'],['../struct_c_r_s_gui_interface.html#aa78f9ad14e3b1dab6069779e67654e2d',1,'CRSGuiInterface::setRemoveCbk()']]],
   ['setsectionclikedcbk',['setSectionClikedCbk',['../struct_c_r_v_gui.html#a8ab65b21d578369200f5c8d27fd509ba',1,'CRVGui::setSectionClikedCbk()'],['../struct_c_r_v_gui_interface.html#a88ad20480f5ed0f24ef7c1d92ecebda5',1,'CRVGuiInterface::setSectionClikedCbk()']]],
-  ['setsimulationstate',['SetSimulationState',['../class_new_line_manager.html#aa9e40fb8bda738c509ab9b9df60f2de1',1,'NewLineManager::SetSimulationState()'],['../class_can_raw_sender_private.html#ac2fd241370f1045c3735cb32d670eb31',1,'CanRawSenderPrivate::setSimulationState()']]],
+  ['setsimulationstate',['setSimulationState',['../class_can_raw_sender_private.html#ac2fd241370f1045c3735cb32d670eb31',1,'CanRawSenderPrivate::setSimulationState()'],['../class_new_line_manager.html#aa9e40fb8bda738c509ab9b9df60f2de1',1,'NewLineManager::SetSimulationState()']]],
   ['setsorting',['setSorting',['../struct_c_r_v_gui.html#a517fc8f58be7047c4c3f5af028615b7a',1,'CRVGui::setSorting()'],['../struct_c_r_v_gui_interface.html#ac8d76b33dcb19012a88f0f5da098ee2e',1,'CRVGuiInterface::setSorting()']]],
   ['setstate',['setState',['../struct_check_box_interface.html#a19933f6a84ef58575df894d6c319f8bb',1,'CheckBoxInterface::setState()'],['../struct_n_l_m_check_box.html#a93fb487c800dfe598935736f829f8e87',1,'NLMCheckBox::setState()']]],
   ['setstyle',['setStyle',['../class_main_window.html#a7d59764cad27f224ba87e76d07ad5269',1,'MainWindow']]],
